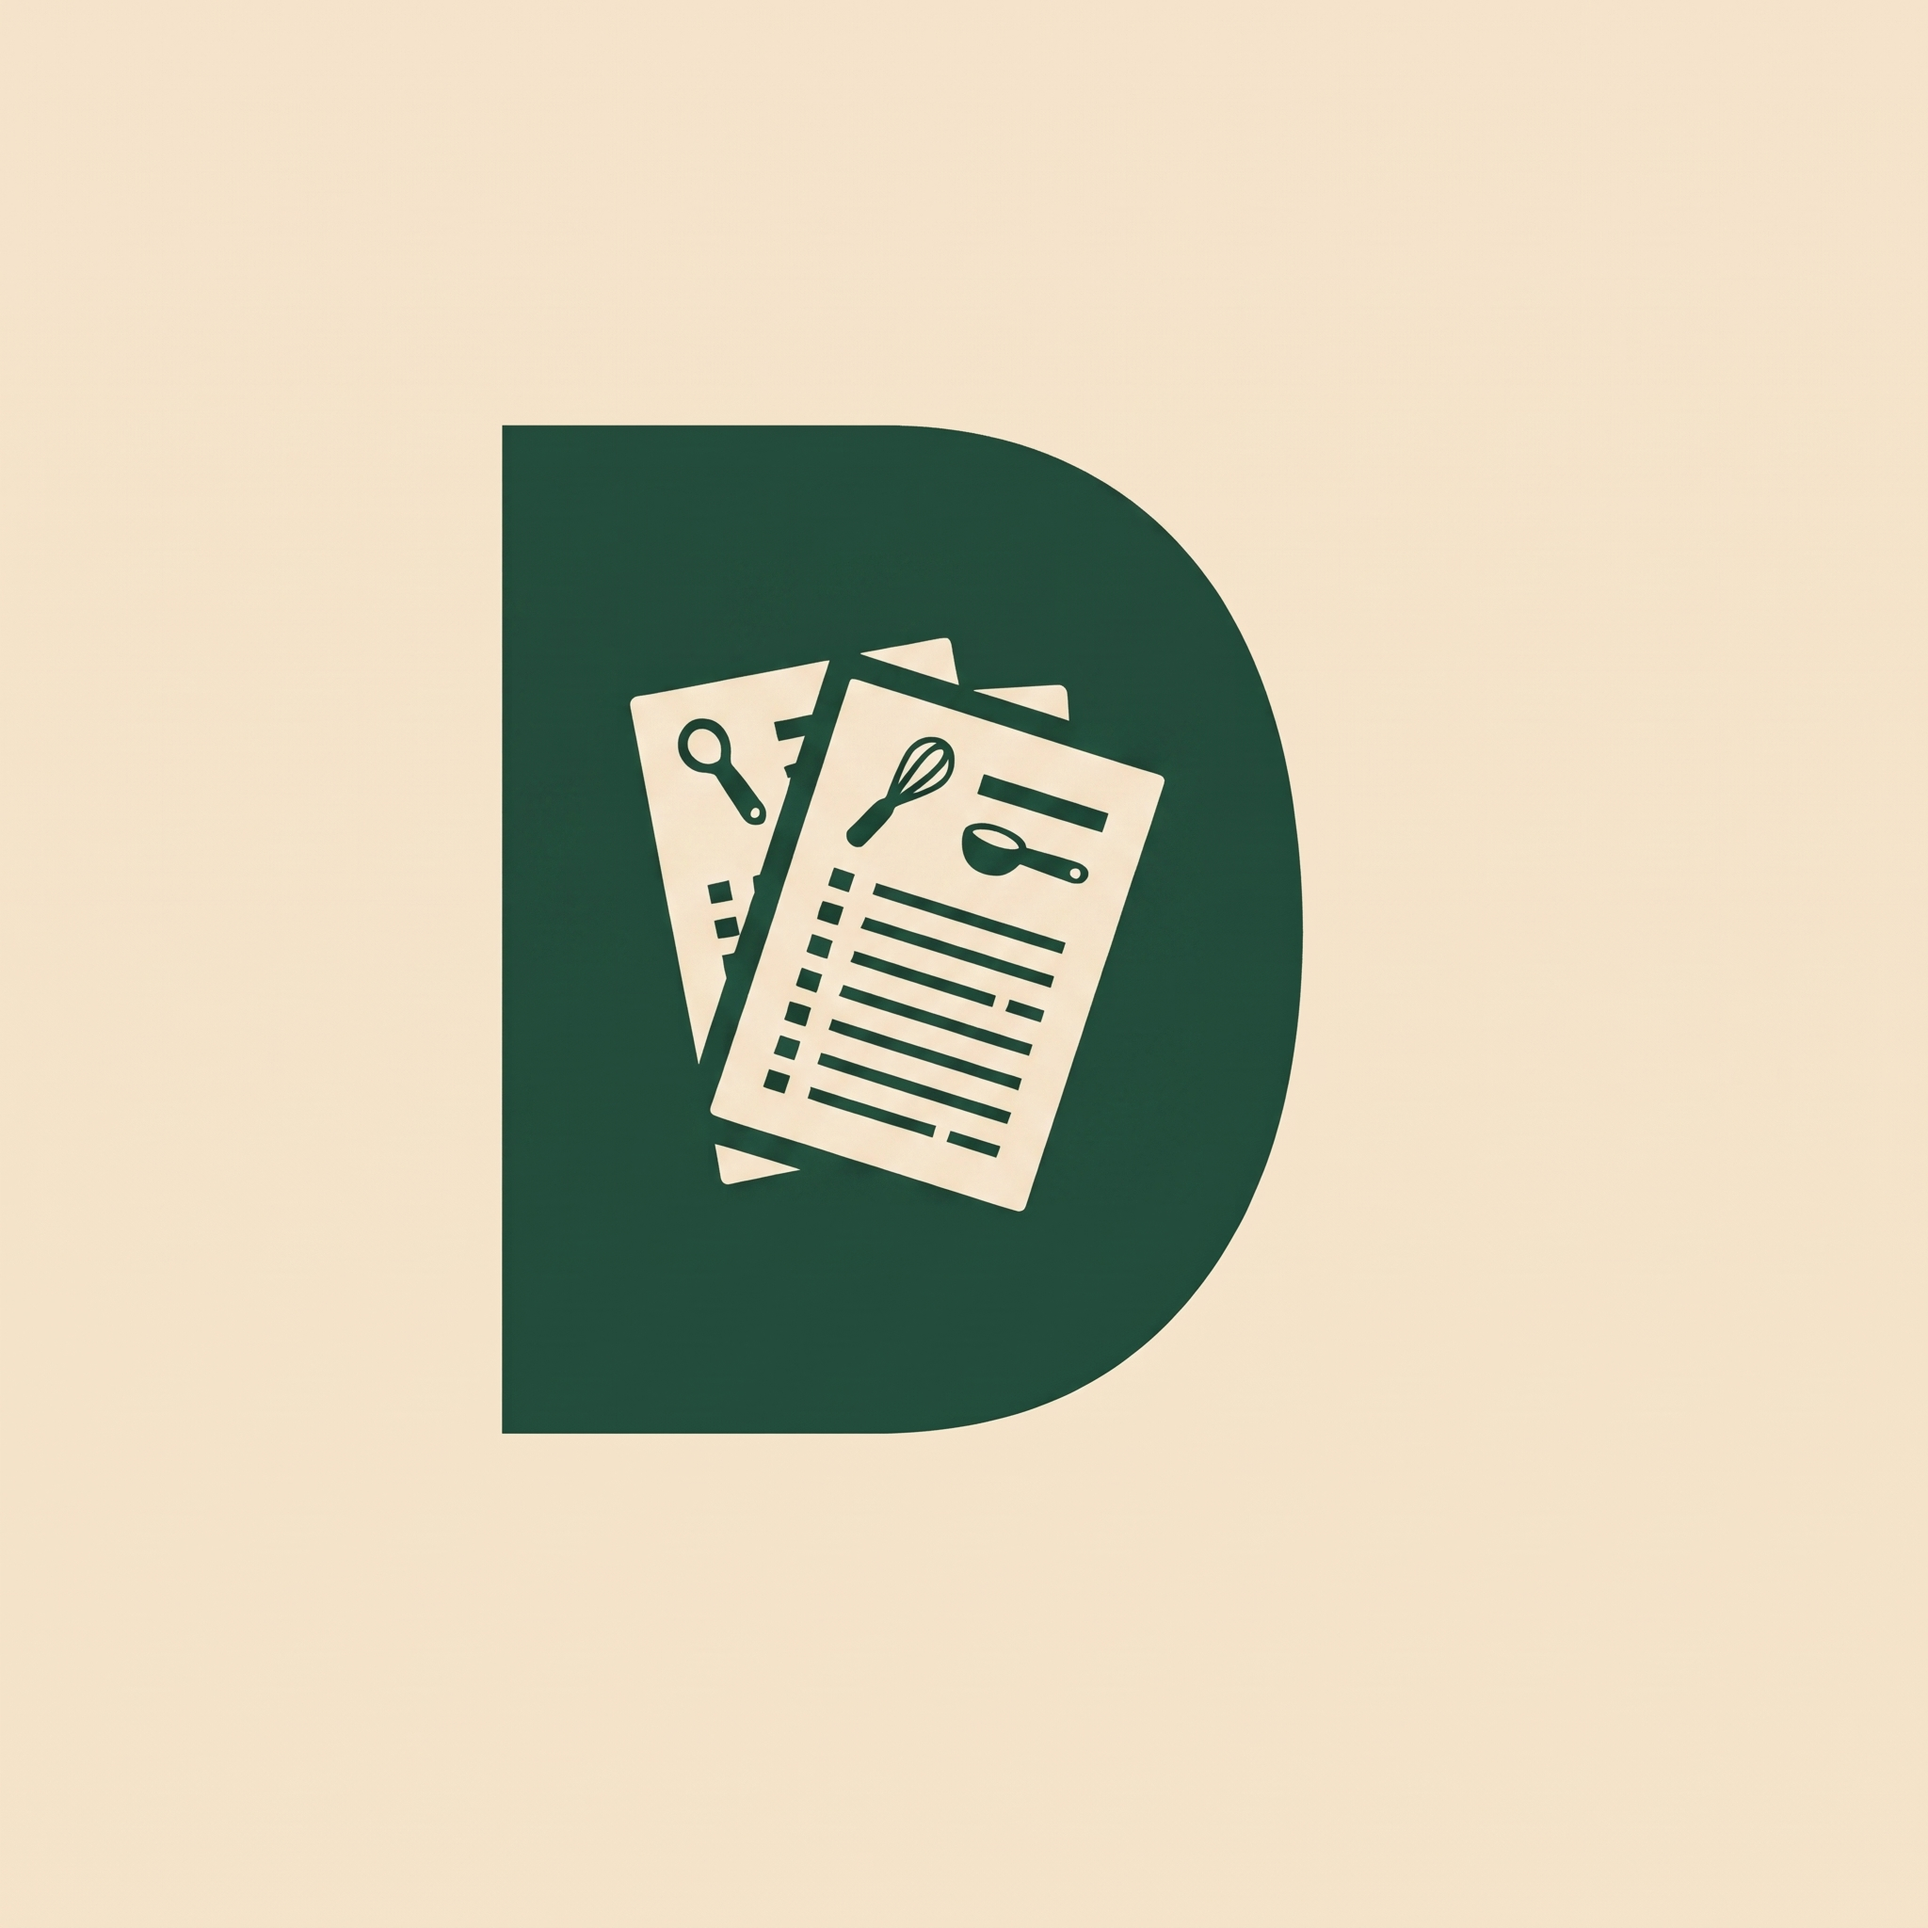
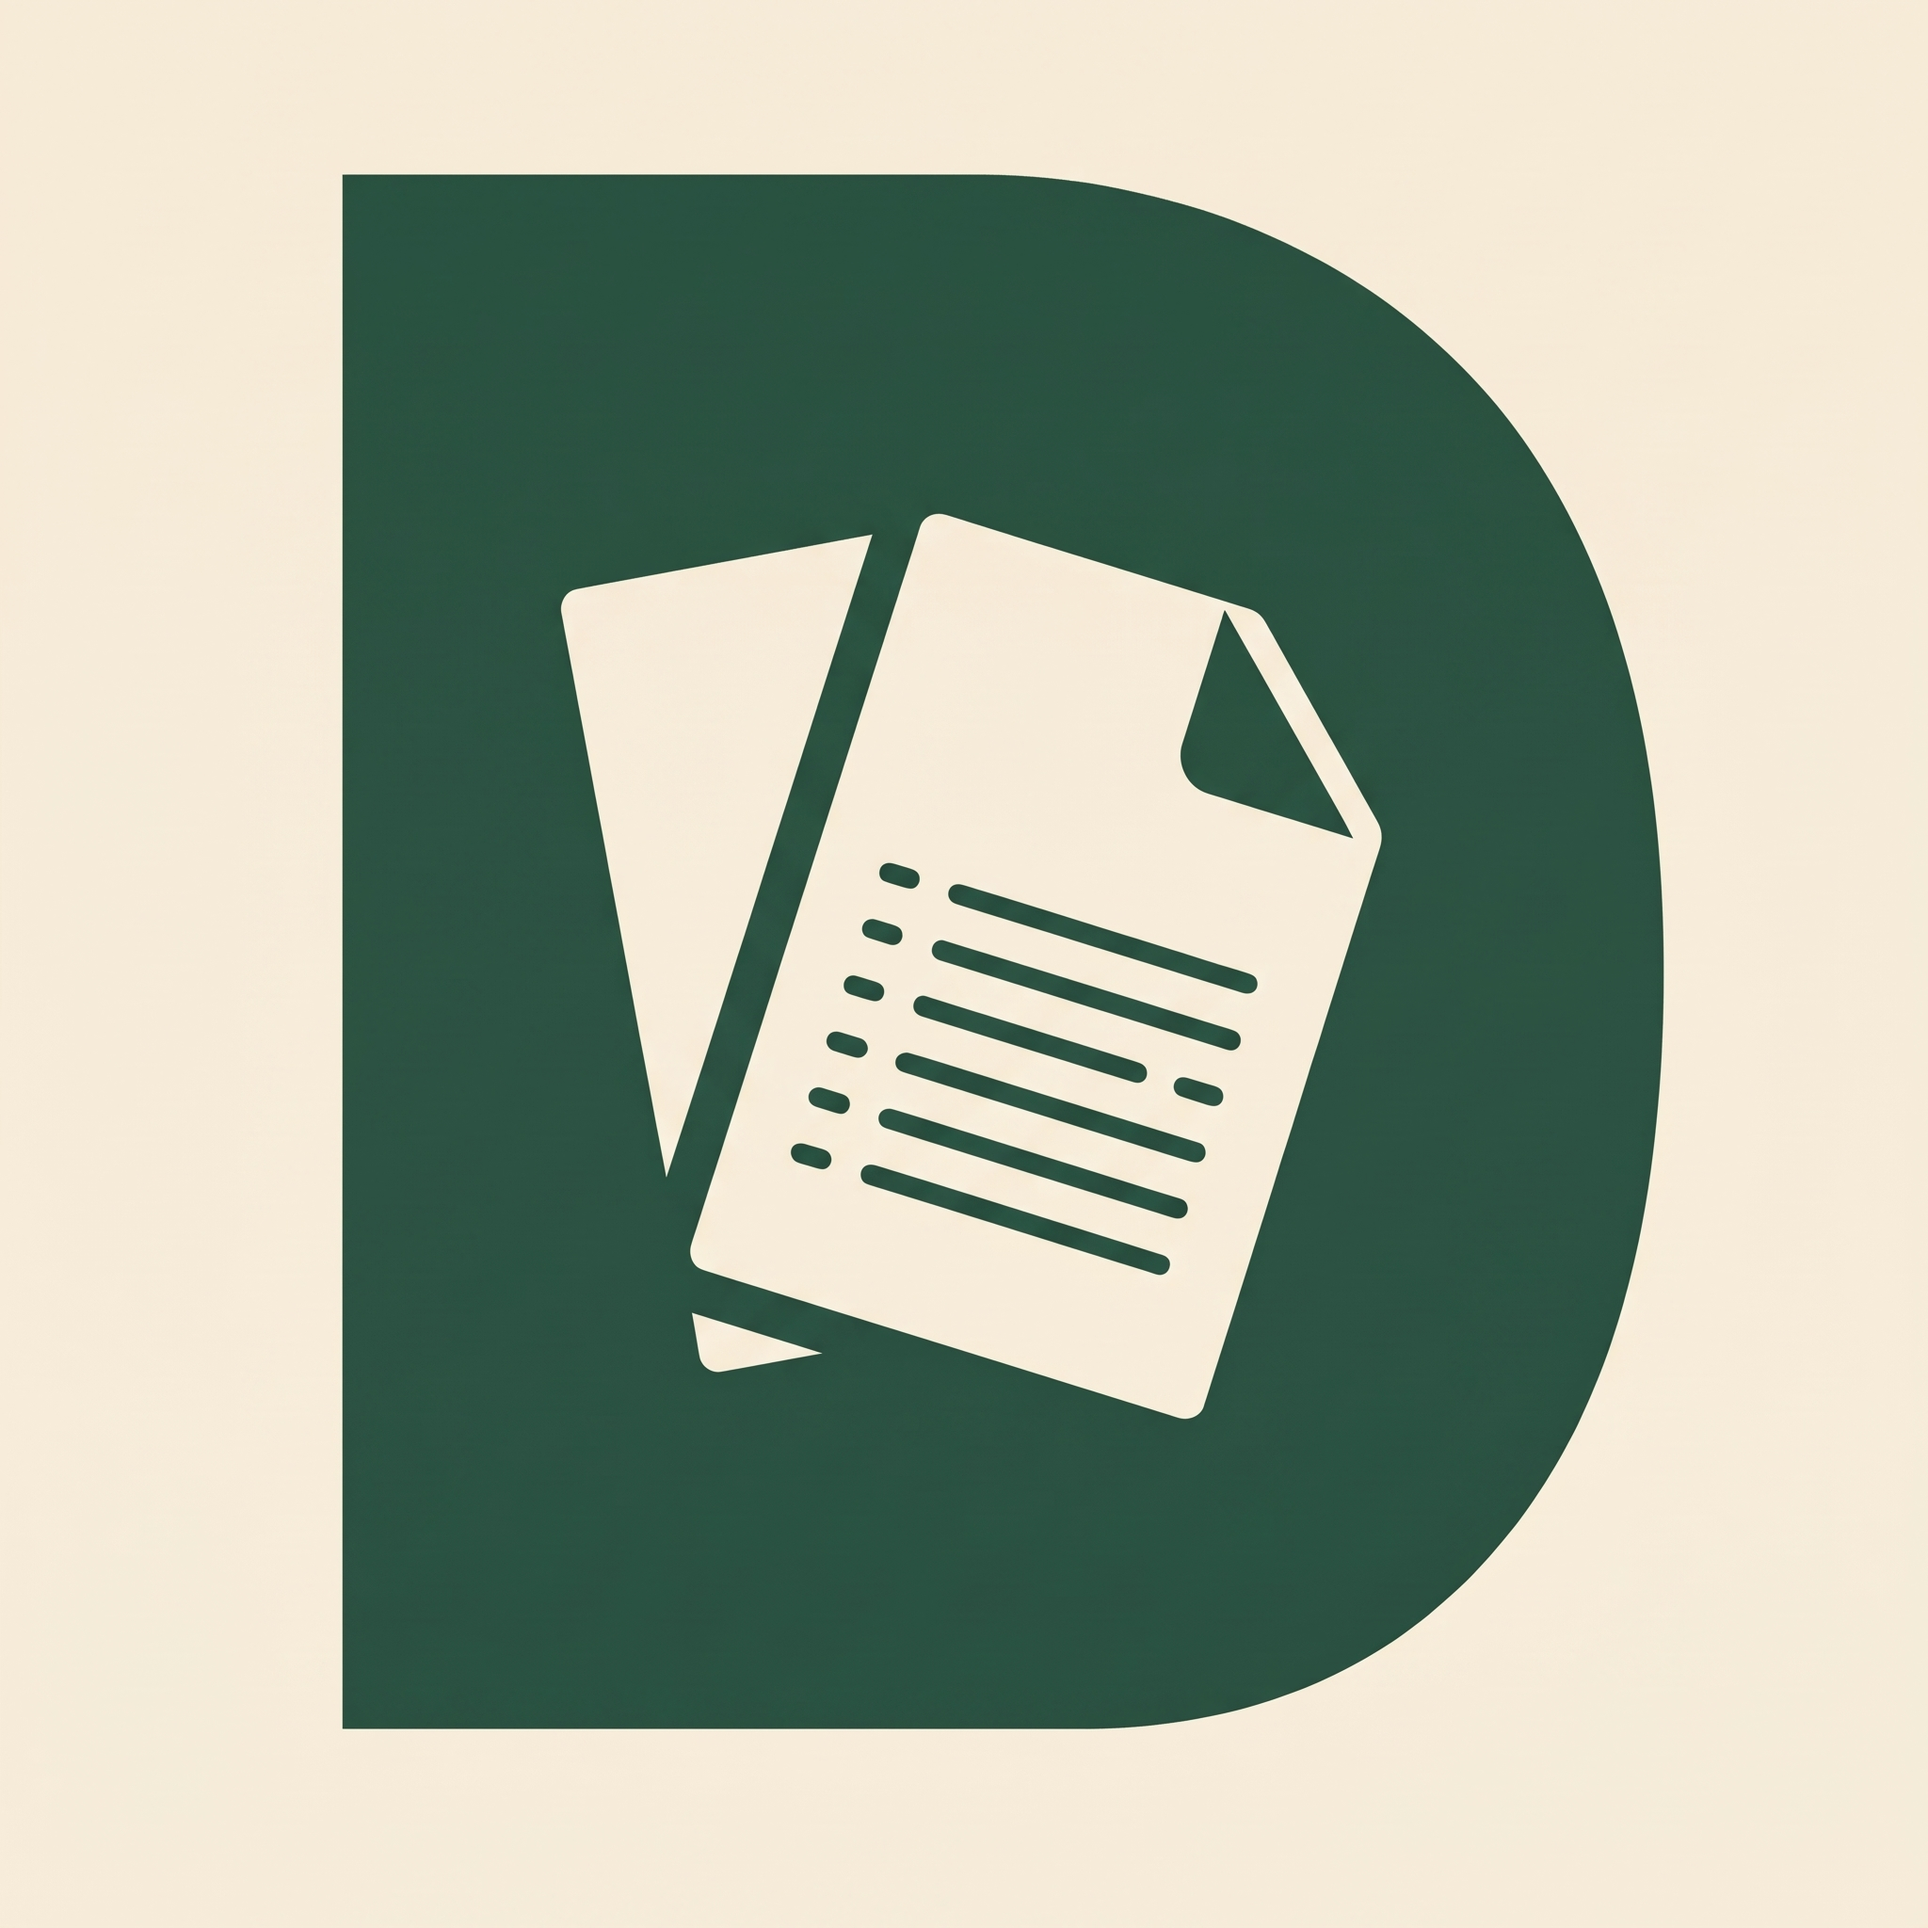
56

diff --git a/index.html b/index.html
@@ -12,7 +12,7 @@
 <meta name="description" content="Dishboard - אפליקציית מתכונים קהילתית . מצאו מתכונים מהירים וחסכוניים לפי מצרכים שיש לכם בבית, נהלו אוספים אישיים ושתפו מתכונים.">
 
 <!-- 3. הגדרת הכתובת הראשית (קנוניקל) למניעת כפילות מול GitHub Pages -->
-<link rel="canonical" href="https://dashboard-theta.vercel.app/">
+<link rel="canonical" href="https://dishboard-theta.vercel.app/">
 
 <!-- 4. תגית אימות מול Google Search Console (תחליף את הקוד בגרשיים כשתקבל אותו מגוגל) -->
 <meta name="google-site-verification" content="KzOu32tDgvlQN5SfuXdzXesWABshy4rlTMutdbfIXVA" />
@@ -42,7 +42,7 @@
 
     <!-- עמודה 2 (אמצע בדיוק): הלוגו המדויק -->
     <a href="#" id="brand" style="display: inline-flex; align-items: center; justify-content: center; gap: 8px; font-family: 'Frank Ruhl Libre', serif; font-size: 1.8rem; font-weight: 700; text-decoration: none; color: #355a3a; letter-spacing: 0.5px; text-align: center;">
-      <img src="icon.png?v=3" alt="Dishboard" style="width: 30px; height: 30px; border-radius: 7px; object-fit: cover;">
+      <img src="icon.png?v=4" alt="Dishboard" style="width: 30px; height: 30px; border-radius: 7px; object-fit: cover;">
       <span>Dishboard</span>
     </a>
 
